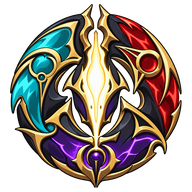
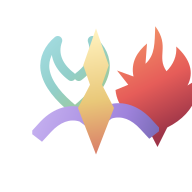
Replace realm crests and app mark with unframed world symbols

diff --git a/identity.css b/identity.css
@@ -1,8 +1,8 @@
 /* The Veil: PMA's anime identity. Character portraits and technique artwork are untouched. */
 :root{--bg:#090e18;--panel:#111a28;--panel-2:#182233;--panel-3:#1d2b3e;--line:#b6c9e51c;--line-strong:#a7c0df38;--text:#ece9df;--muted:#a2abba;--dim:#738097;--gold:#dec086;--gold-bright:#ffdfa3;--blue:#80c9d0;--violet:#b6a3ee}
 body{background:radial-gradient(ellipse at 4% 0,#23404b33,transparent 38%),radial-gradient(ellipse at 95% 45%,#412c4833,transparent 40%),#090e18;color:var(--text);min-width:0}
-body::before{background:linear-gradient(110deg,#07101aaa,#13182944);opacity:.45}.app-shell{max-width:1440px;width:calc(100% - 64px)}.main-content{padding-top:24px}.ui-icon{display:inline-block;width:25px;height:25px;flex-shrink:0;vertical-align:middle}.realm-emblem{display:block;width:90px;height:90px;object-fit:contain;filter:drop-shadow(0 4px 10px #0009)}
-.topbar{min-height:94px;height:auto;border-bottom:1px solid #a8bfd22c;padding-block:17px;gap:26px}.brand-mark{width:56px;height:60px;border-radius:0;box-shadow:none;object-fit:contain;filter:drop-shadow(0 0 12px #e9c97b22)}.brand-name b{font-size:15px;letter-spacing:.22em;color:#eee4cd}.brand-name small{letter-spacing:.48em;color:#bfae8e;font-size:9px}.main-nav{gap:6px}.nav-link{display:flex;align-items:center;gap:8px;border:1px solid transparent;border-radius:3px;padding:12px 14px;font-size:12px;color:#9eacbc;min-height:44px}.nav-link .ui-icon{width:17px;height:17px;color:#81939f}.nav-link.active{background:linear-gradient(#dfbd7112,#dfbd7105);border-color:#d4b57438;color:#f1d5a0}.nav-link.active .ui-icon{color:#e1bf7c}.nav-link:hover{background:#b0cfef09;color:#e4e4de}.player-chip{padding-left:23px;border-color:#a5b8d124}.player-chip b{font-size:11px}.player-chip small{font-size:10px;color:#95a5b7}.player-orb{border:0;border-radius:0;color:#e3c888;background:none}.player-orb .ui-icon{width:23px;height:23px}
+body::before{background:linear-gradient(110deg,#07101aaa,#13182944);opacity:.45}.app-shell{max-width:1440px;width:calc(100% - 64px)}.main-content{padding-top:24px}.ui-icon{display:inline-block;width:25px;height:25px;flex-shrink:0;vertical-align:middle}.realm-emblem{display:block;width:90px;height:90px;object-fit:contain;filter:none}
+.topbar{min-height:94px;height:auto;border-bottom:1px solid #a8bfd22c;padding-block:17px;gap:26px}.brand-mark{display:block;width:56px;height:60px;padding:0;border:0;border-radius:0;background:none;box-shadow:none;object-fit:contain;filter:none}.brand-name b{font-size:15px;letter-spacing:.22em;color:#eee4cd}.brand-name small{letter-spacing:.48em;color:#bfae8e;font-size:9px}.main-nav{gap:6px}.nav-link{display:flex;align-items:center;gap:8px;border:1px solid transparent;border-radius:3px;padding:12px 14px;font-size:12px;color:#9eacbc;min-height:44px}.nav-link .ui-icon{width:17px;height:17px;color:#81939f}.nav-link.active{background:linear-gradient(#dfbd7112,#dfbd7105);border-color:#d4b57438;color:#f1d5a0}.nav-link.active .ui-icon{color:#e1bf7c}.nav-link:hover{background:#b0cfef09;color:#e4e4de}.player-chip{padding-left:23px;border-color:#a5b8d124}.player-chip b{font-size:11px}.player-chip small{font-size:10px;color:#95a5b7}.player-orb{border:0;border-radius:0;color:#e3c888;background:none}.player-orb .ui-icon{width:23px;height:23px}
 .status-strip{border-bottom:1px solid #a7bdd322;background:linear-gradient(90deg,#13223366,transparent);padding:17px 16px;gap:32px}.status-icon{color:#86bec8;width:32px}.status-icon .ui-icon{width:28px;height:28px}.status-item small{letter-spacing:.12em;color:#8595a6;font-size:8px}.status-item b{font:600 14px/1.5 system-ui;color:#dcd8cc}.status-quote{color:#728398;font-size:10px}.chain-pips i{background:#6b9aa988;box-shadow:0 0 5px #73b3bd22}.site-footer{border-top:1px solid #adc4db1a;color:#718198;font-size:8px;margin-top:35px;padding-block:22px;letter-spacing:.08em}
 .hero-panel{position:relative;isolation:isolate;overflow:hidden;min-height:360px;padding:52px 44px 65px;border:1px solid #a6b8cd2d;border-radius:6px;background:#0d1520;box-shadow:0 10px 40px #0004}.hero-copy{z-index:3;max-width:470px}.hero-copy h1{font:500 clamp(40px,4.8vw,66px)/1.05 Georgia,serif;letter-spacing:-.045em;color:#f0ebdb;text-shadow:0 3px 20px #0007;margin:19px 0}.hero-copy h1 em{color:#efcd88;font-weight:400}.hero-copy p{font-size:13px;line-height:1.8;color:#b6c0c9}.hero-copy .eyebrow{font-size:9px;color:#b2a37f;letter-spacing:.16em}.hero-art{position:absolute;inset:0;width:100%;height:100%;opacity:1;transform:none;mask-image:none;z-index:0;pointer-events:none}.hero-art::after{content:'';position:absolute;inset:0;background:linear-gradient(90deg,#090f19f0 0%,#0a111ccc 26%,#0a111c1a 65%),linear-gradient(0deg,#0a111be6,transparent 50%)}.hero-art .veil-scene{position:absolute;inset:0;display:block;width:100%;height:100%;object-fit:cover;object-position:65% 48%;opacity:1}.hero-art .orbit,.hero-art .realm-mark,.hero-art .hero-core,.hero-art .hero-label{display:none}.hero-gate-caption{position:absolute;bottom:24px;right:28px;z-index:2;text-align:right;display:grid;gap:5px}.hero-gate-caption span{font-size:7px;letter-spacing:.25em;color:#9bacbd}.hero-gate-caption b{font:italic 18px Georgia,serif;color:#e2cfac}.veil-embers{z-index:2;opacity:.6}
 .section-heading h2,.page-heading h1,.campaign-heading h2{font-family:Georgia,serif;color:#eae1cd;letter-spacing:-.025em}.section-count{border:1px solid #c7b17c33;background:#cbb27f08;color:#cab893;border-radius:3px}.realm-tabs{display:grid;grid-template-columns:repeat(3,minmax(0,1fr));gap:15px;margin:24px 0}.realm-tab{position:relative;isolation:isolate;overflow:hidden;display:grid;grid-template-columns:76px minmax(0,1fr);grid-template-rows:1fr 1fr;column-gap:14px;align-items:center;min-height:142px;padding:24px 22px;background:#111927;border:1px solid #9facbc33;border-radius:4px;text-align:left;box-shadow:0 5px 18px #0003}.realm-tab::before{content:'';position:absolute;z-index:-2;inset:0;background-size:cover;background-position:center;opacity:.28;transition:opacity .3s,transform .5s}.realm-tab::after{content:'';position:absolute;inset:0;z-index:-1;background:linear-gradient(90deg,#0d1424b3,#0d142455)}.realm-tab.realm-inferno::before{background-image:url('/art/interface/inferno.webp')}.realm-tab.realm-paraiso::before{background-image:url('/art/interface/paraiso.webp')}.realm-tab.realm-limbo::before{background-image:url('/art/interface/limbo.webp')}.realm-tab>span{grid-column:1;grid-row:1/3;width:76px;height:86px;display:grid;place-items:center;font-size:0}.realm-tab .realm-emblem{width:82px;height:90px;transition:transform .3s}.realm-tab>b{grid-column:2;grid-row:1;align-self:end;font:500 24px/1.2 Georgia,serif;color:#e2ddcf;margin:0}.realm-tab>small{grid-column:2;grid-row:2;align-self:start;justify-self:start;font-size:10px;color:#9cabbc;letter-spacing:.08em;margin:7px 0 0}.realm-tab.selected{border-color:#dbc28b99;box-shadow:inset 0 -2px #dab77d,0 0 25px #dcc0840c;background:#111927}.realm-tab.selected::before,.realm-tab:hover::before{opacity:.5}.realm-tab:hover .realm-emblem{transform:translateY(-3px)}

diff --git a/src/ui-icons.js b/src/ui-icons.js
@@ -22,7 +22,7 @@ const paths={
  chevron:'M10 5 22 16 10 27'
 };
 export function uiIcon(name,extraClass=''){const viewBox=name==='chains'?'-3 -1 38 34':name==='trio'?'-1 -1 34 34':'0 0 32 32';return `<svg class="ui-icon ${extraClass}" viewBox="${viewBox}" fill="none" stroke="currentColor" stroke-width="1.7" stroke-linecap="round" stroke-linejoin="round" aria-hidden="true" focusable="false"><path d="${paths[name]||paths.seal}"/></svg>`;}
-export function realmEmblem(id,className='realm-emblem'){return `<img class="${className}" src="/art/interface/realm-${id}.webp" alt="" width="128" height="128" loading="lazy">`;}
+export function realmEmblem(id,className='realm-emblem'){return `<img class="${className}" src="/art/interface/realm-${id}.svg" alt="" width="128" height="128" loading="lazy">`;}
 export function statusIcon(label){const name=/carga/i.test(label)?'charge':/afli|sangramento|queimadura|veneno|decad/i.test(label)?'spore':/marca/i.test(label)?'mark':/cura|regenera/i.test(label)?'heart':/contra/i.test(label)?'counter':/selad|atordo/i.test(label)?'lock':/exposto/i.test(label)?'eye':/defesa|armadura|redução|invulner/i.test(label)?'shield':'seal';return uiIcon(name);}
 
 

diff --git a/src/main.js b/src/main.js
@@ -423,7 +423,7 @@ function header() {
   return `
     <header class="topbar">
       <button class="brand" data-tab="rota" aria-label="PMA: Post Mortem Arena, início">
-        <img class="brand-mark" src="/art/interface/brand.webp" alt="">
+        <img class="brand-mark" src="/icon.svg" alt="">
         <span class="brand-name"><b>POST MORTEM</b><small>ARENA</small></span>
       </button>
       <nav class="main-nav" aria-label="Navegação principal">${tabList.map(([id, label]) => `<button class="nav-link ${state.tab === id ? "active" : ""}" data-tab="${id}">${uiIcon(id)}<span>${label}</span></button>`).join("")}</nav>

diff --git a/docs/qa/REALM_SYMBOLS_20261022.md b/docs/qa/REALM_SYMBOLS_20261022.md
@@ -1,0 +1,10 @@
+# Símbolos sem moldura dos reinos e do jogo
+
+Os três emblemas dos mundos agora usam símbolos vetoriais transparentes, sem placa, aro ou ornamento de fundo. Inferno usa uma chama serrilhada; Paraíso, linhas abertas e fluidas com um foco de luz; Limbo, elos interrompidos. O ícone do jogo reúne os três motivos em torno de uma centelha central e também substitui a marca no cabeçalho, o favicon e os PNGs de instalação.
+
+## Verificação
+
+- Os três SVGs dos mundos têm duas formas cada e não incluem retângulo, círculo, texto ou placa.
+- O ícone SVG não tem fundo opaco; os PNGs exportados têm 192 × 192 e 512 × 512, RGBA e transparência.
+- Os PNGs foram decodificados e os arquivos aparecem nos caminhos usados pelo cabeçalho, favicon, manifesto e cartões dos reinos.
+- `node --test --test-skip-pattern='o trio inicial tem retrato|os sessenta e sete personagens seguintes'`: 134 aprovados. Dois testes do acervo antigo foram omitidos porque as imagens pré-existentes correspondentes não estão nesta cópia parcial.
